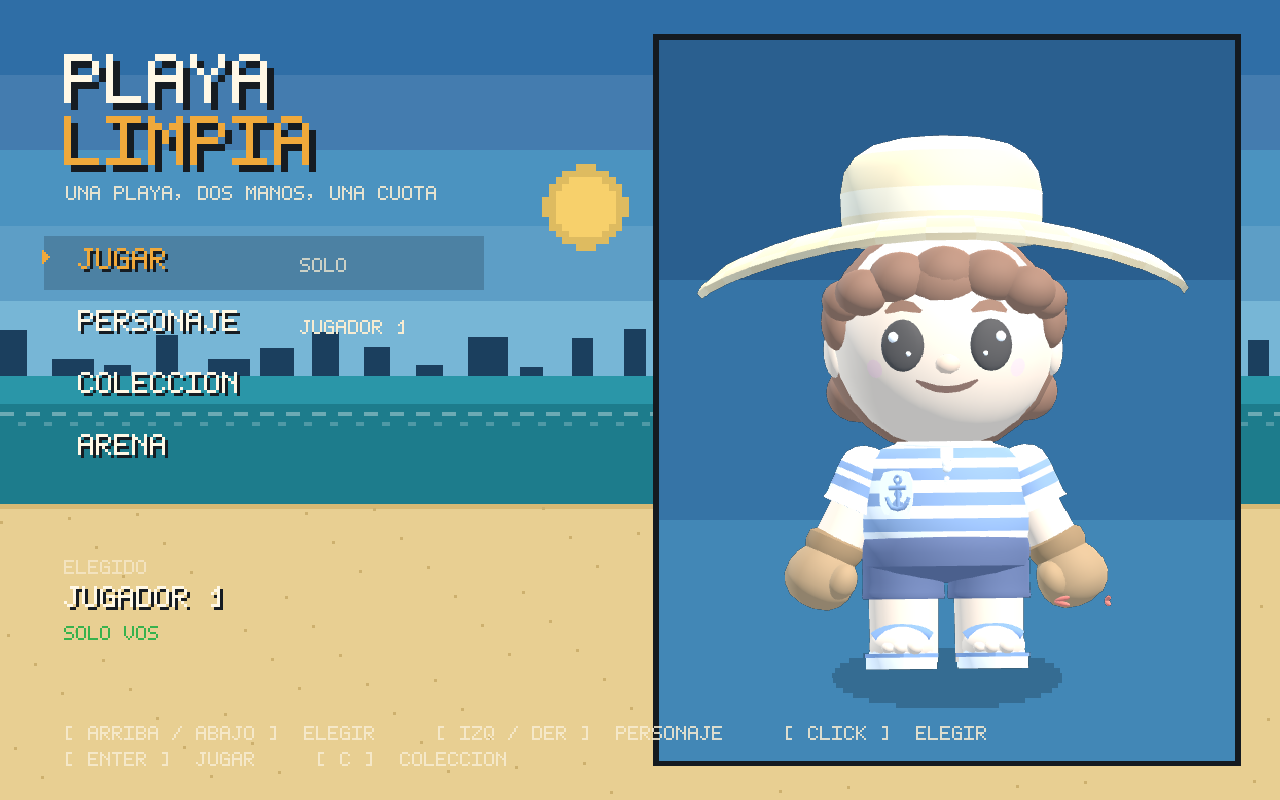
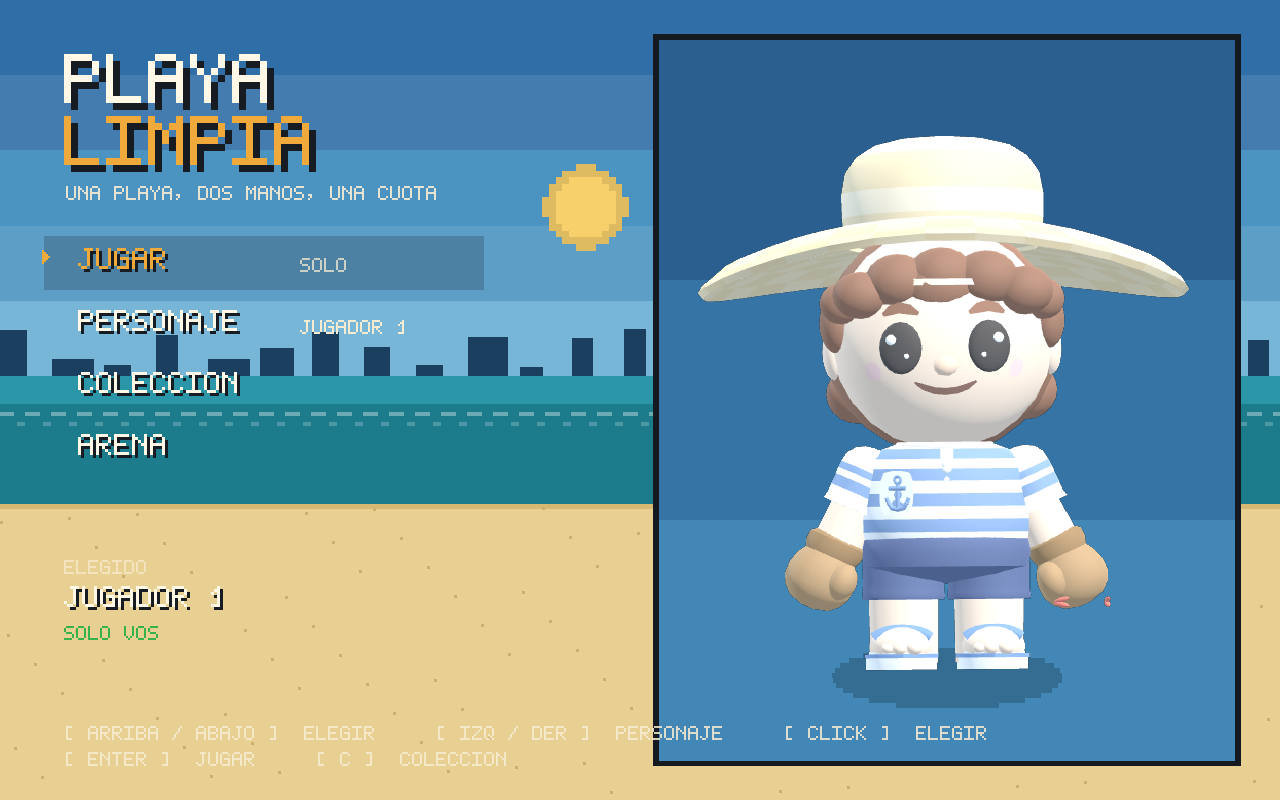
Saludo y expresiones en el menú, y la copa del sombrero tapada
- El modelo del menú ya no se queda quieto: usa el MISMO rig que el jugador
  (CharModel.construir_rig, extraído de player.gd) y cada 4-8 s hace un gesto:
  * saludo: levanta el brazo, agita la mano, inclina la cabeza y sonríe;
  * sorpresa: ojos abiertos, cejas arriba, cabeza atrás y saltito.
  Después vuelve a idle (respiración + balanceo mínimo).
- BUG de la cara rota al animar: en estos GLB la geometría está horneada y los
  nodos comparten el origen del modelo, así que escalar un ojo lo escalaba desde
  los pies. Ahora cada ojo/boca se envuelve en un pivote en SU centro.
- BUG del sombrero hueco: además del ala de doble cara, la copa estaba vacía.
  CharModel._cerrar_copa() agrega un disco del color del sombrero en la base de
  la copa (menú y juego). Test nuevo.
- El tinte de "bloqueada" se aplicaba DESPUÉS del arreglo del sombrero y lo
  pisaba: ahora va antes.
- tests/shot.gd: modo --pose (--sorpresa) para capturar los gestos.

133 comprobaciones headless en verde.

diff --git a/docs/PERSONAJES.md b/docs/PERSONAJES.md
@@ -36,6 +36,21 @@ EOF
 definirlo. Ya está definido en `build.py` con el color real del modelo
 (`#3f5b7d`), así que la variante se puede regenerar.
 
+## Menú: idle con gestos
+
+El modelo del menú usa **el mismo rig** que el jugador (`CharModel.construir_rig`)
+y no gira: respira, se balancea apenas y cada 4-8 s hace un gesto:
+
+- **saludo**: levanta el brazo derecho, agita la mano, inclina la cabeza y
+  agranda un poco la boca (sonrisa); después vuelve a idle.
+- **sorpresa**: abre los ojos, levanta las cejas, echa la cabeza atrás y da un
+  saltito.
+
+Ojo con los GLB: la geometría viene **horneada** y todos los nodos comparten el
+origen del modelo, así que escalar un ojo directamente lo escala desde los pies
+(la cara se rompe). Cada pieza que hay que escalar se envuelve en un pivote en
+**su** centro (`_pivote_en_centro`).
+
 ## Qué necesita un modelo para que el rig lo agarre
 
 El rig se arma solo al cargar (`_prepare_external`) y agrupa mallas **por
